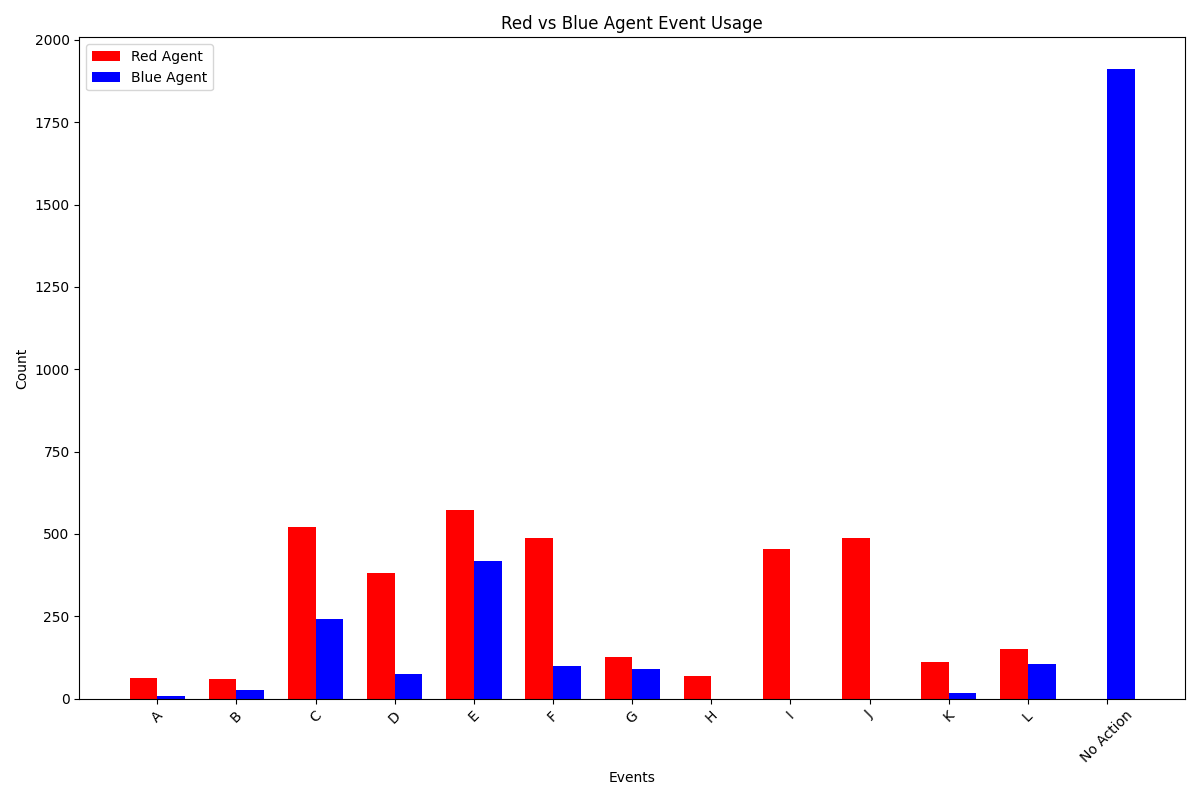
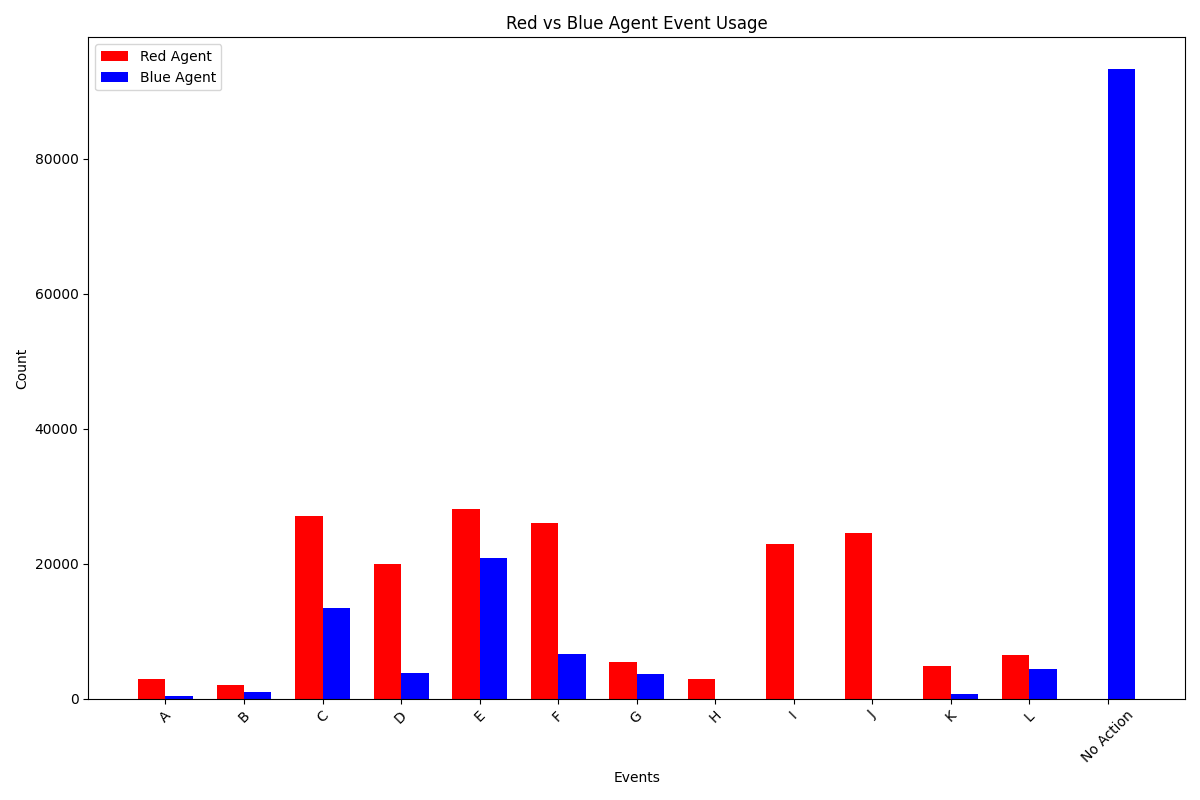
Updates improvement potential

diff --git a/demo_code.py b/demo_code.py
@@ -1,0 +1,40 @@
+import matplotlib.pyplot as plt
+import os
+
+# Reliability data
+events = ['A', 'B', 'C', 'D', 'E', 'F', 'G', 'H', 'I', 'J', 'K', 'L']
+reliabilities = [0.9818, 0.9880, 0.8418, 0.8927, 0.8423, 0.8507, 0.9656, 0.9816, 0.8728, 0.8650, 0.9718, 0.9620]
+
+# Sort events and reliabilities by reliability in descending order
+sorted_indices = sorted(range(len(reliabilities)), key=lambda i: reliabilities[i], reverse=True)
+events = [events[i] for i in sorted_indices]
+reliabilities = [reliabilities[i] for i in sorted_indices]
+
+# Plot the reliability as dots
+plt.figure(figsize=(10, 6))
+plt.plot(events, reliabilities, 'o', color='blue', markersize=8, label='Reliability')
+plt.plot(events, reliabilities, linestyle=':', color='lightblue', linewidth=1)
+# Set y-axis limits from 0.6 to 1.2
+plt.ylim(0.6, 1.2)
+
+# Add labels and title
+plt.xlabel('Event')
+plt.ylabel('Reliability')
+plt.title('Reliability of Events for Red Agent (Sorted by Reliability)')
+
+# Display values above each point
+for i, reliability in enumerate(reliabilities):
+    plt.text(i, reliability + 0.02, f"{reliability:.4f}", ha='center', va='bottom', rotation=90)
+plt.grid(True, color='gray', linestyle='--', linewidth=0.5, alpha=0.3)
+
+# Ensure the save directory exists
+save_dir = '2_100K_DFT_MARL-ddqn_analysisGraphs'
+os.makedirs(save_dir, exist_ok=True)
+
+# Save the plot
+plt.grid(True)
+save_path = os.path.join(save_dir, 'reliability_plot.png')
+plt.savefig(save_path)
+plt.show()
+
+print(f"Plot saved to {save_path}")

diff --git a/improvement_potential.py b/improvement_potential.py
@@ -273,7 +273,7 @@ if __name__ == "__main__":
 
     fig, ax2 = plt.subplots(figsize=(12, 6))
 
-    ax2.bar(data["Event"], data["Event Usage"], color="#CD1C18", alpha=1.0, width=0.4, zorder=1)  # Event Usage on the left y-axis
+    ax2.bar(data["Event"], data["Event Usage"], color="#CD1C18", alpha=1.0, width=0.7, zorder=1)  # Event Usage on the left y-axis
     ax2.set_ylabel("Event Usage by Red Agent", color="red", alpha=1.0)
     ax2.tick_params(axis="y", labelcolor="red")
 

diff --git a/evaluation.py b/evaluation.py
@@ -315,7 +315,7 @@ def actual_game():
     max_cycles = env.game.get_max_steps() + 4
 
     # Set the number of evaluation games
-    num_games = 500
+    num_games = 5000
 
     # Load the saved models for both agents (red and blue)
     red_agent = Agent(name="red_agent_2_100K", gamma=0.99, epsilon=1.0, lr=5e-6,
